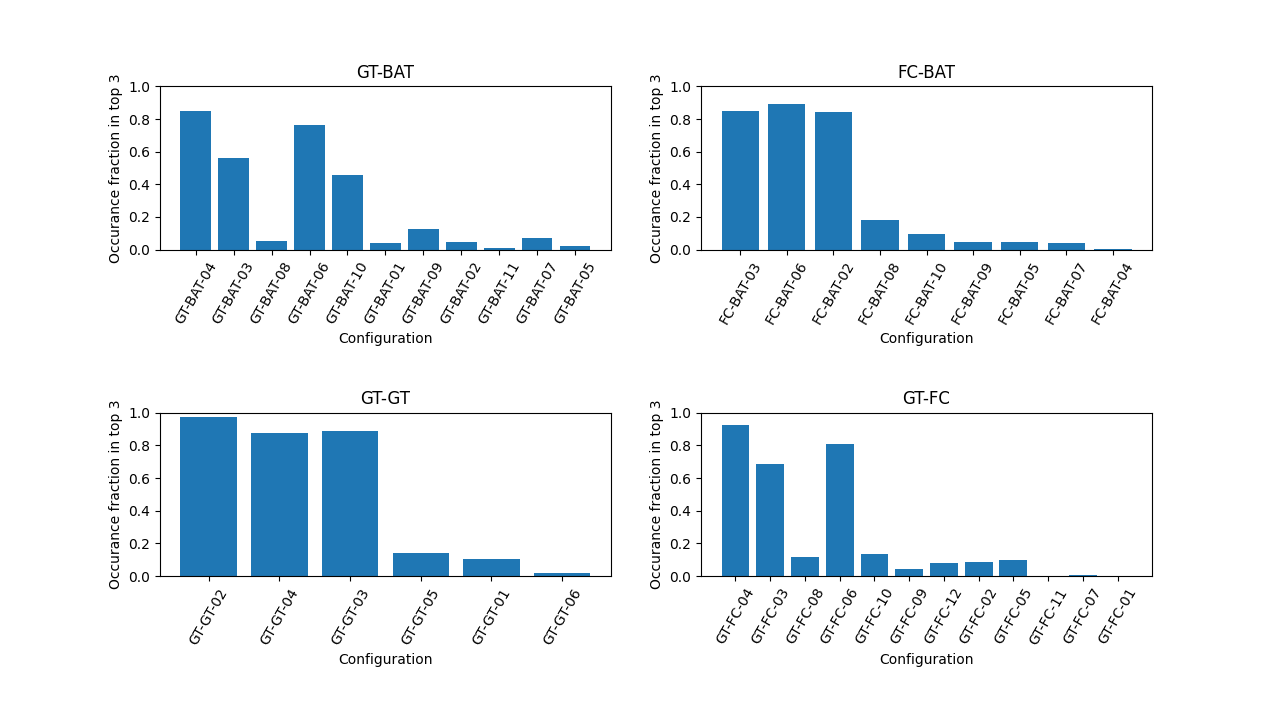
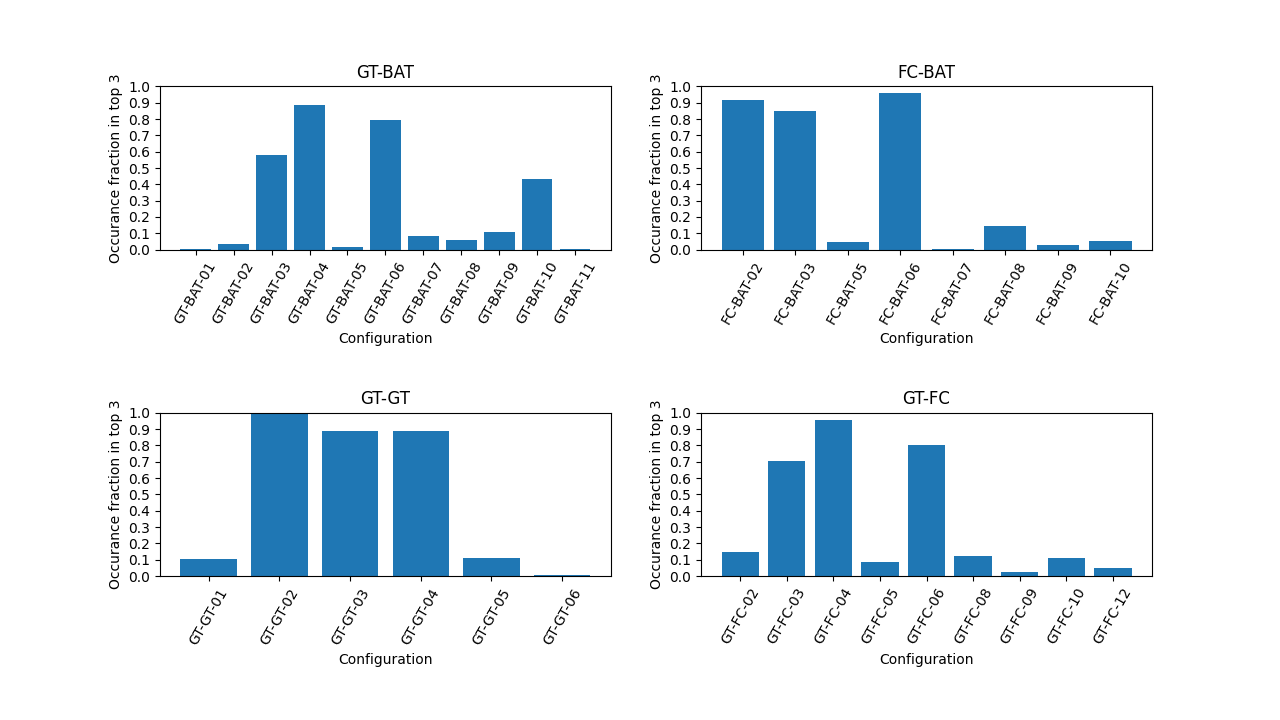
Sensitivity study update

diff --git a/General/Tradeoff_config_sensitivity.py b/General/Tradeoff_config_sensitivity.py
@@ -75,13 +75,13 @@ table = {
             "weight": 3,
             "stblty": 2,
             "safety": 3,
-            "therml": 2
+            "therml": 3
         },
         "FC-BAT-02": {
             "weight": 5,
             "stblty": 2,
             "safety": 5,
-            "therml": 4
+            "therml": 5
         },
         "FC-BAT-03": {
             "weight": 5,
@@ -176,13 +176,13 @@ table = {
             "weight": 3,
             "stblty": 1,
             "safety": 2,
-            "therml": 3
+            "therml": 4
         },
         "GT-FC-02": {
             "weight": 4,
             "stblty": 1,
             "safety": 3,
-            "therml": 3
+            "therml": 4
         },
         "GT-FC-03": {
             "weight": 4,
@@ -266,7 +266,7 @@ def generate_adjusted_weights(weights, noise=0.0, n_runs=1):
     for _ in range(n_runs):
         new_weights = {}
         for criterion in weights:
-            new_weights[criterion] = weights[criterion] * (1 + noise*np.random.randn())
+            new_weights[criterion] = weights[criterion] * max(0.0, 1+noise*np.random.randn())
 
         weights_magnitude = 0.0
         for criterion in new_weights:
@@ -312,12 +312,16 @@ def plot_winner_distribution(all_winners, n_winners=1, n_runs=1):
     axs = axs.reshape(-1)
 
     for ax, design in zip(axs, list(all_winners.keys())):
+        design_scores = dict(sorted(all_winners[design].items(), key=lambda item: item[0]))
+        ax.bar(design_scores.keys(), np.array(list(design_scores.values()))/n_runs)
+
         ax.set_title(design)
-        ax.bar(all_winners[design].keys(), np.array(list(all_winners[design].values()))/n_runs)
         ax.set_xlabel("Configuration")
         ax.set_ylabel(f"Occurance fraction in top {n_winners}")
         ax.set_ylim(0, 1)
         ax.tick_params("x", rotation=60)
+        ax.set_yticks(np.arange(0.0, 1.1, 0.1))
+        # ax.grid()
 
     plt.savefig(f"Tradeoff_config_sensitivity_top_{n_winners}.png")
     plt.show()
